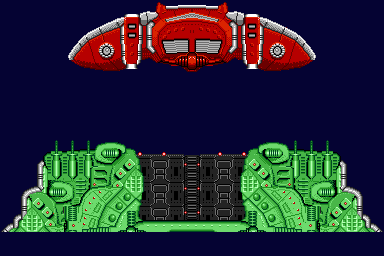
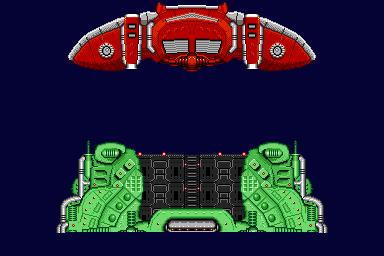
working on independent rotation

Changed region(s): [[0.75, 0.5312, 1.0, 0.9062], [0.0, 0.5312, 0.25, 0.9062], [0.375, 0.8125, 0.625, 0.9062]]

diff --git a/RotationDual/src/main.c b/RotationDual/src/main.c
@@ -16,17 +16,15 @@ s16 vScrollLowerA[20];
 s16 planeADeltas[20] = {1, 1, 1, 1, 1, 1, 1, 1, 1, 1, 1, 1, 1, 1, 1, 1, 1, 1, 1, 1};
 
 s16 vScrollB[20] = {0, 0, 0, 0, 0, 0, 0, 0, 0, 0, 0, 0, 0, 0, 0, 0, 0, 0, 0, 0};
-s16 planeBDeltas[20] = {12, 12, 10, 10, 8, 8, 8, 6, 4, 2, 2, 4, 6, 8, 8, 8, 10, 10, 12, 12};
-// s16 planeBMod[20] ={1,1, 3,3, 4,4,  5, 6, 7,8, 8,7,6,5, 4,4 ,3,3, 1,1};
+s16 planeBDeltas[20] = {9, 9, 7, 7, 5, 5, 5, 4, 3, 2, 2, 3, 4, 5, 5, 5, 7, 7, 9, 9};
+//s16 planeBDeltas[20] = {1, 1, 1, 1, 1, 1, 1, 1, 1, 1, 1, 1, 1, 1, 1, 1, 1, 1, 1, 1};
 
 // setup fake rotation by changing the foreground horizontal and vertical scrolling
-void setAngle( u16 angle, int centerY, s16 vscroll[] ) {
-	/*
-	 for( int row = START_ROW_A; row < START_ROW_A + ROWS_A; ++row ){
+void setAngle( u16 angle,  s16 startY, s16 endY, s16 centerY, s16 vscroll[] ) {
+	 for( int row = startY; row < endY; ++row ){
 	 	fix32 shift = fix32Mul(FIX32( (row - centerY)>>1 ), sinFix32(angle));	
-		hScrollA[row-START_ROW_A] = fix32ToInt( shift ) - 24;
+		hScrollA[row] = fix32ToInt( shift ) - 32;
 	 } 
-*/
 
 	// vertical scroll tiles are 16 pixels wide.  Using 8 * (col-10) to scale the scrolling effect
 	// at the extreme left and right of the screen  the factor would be -80 and + 80
@@ -43,20 +41,14 @@ void setAngle( u16 angle, int centerY, s16 vscroll[] ) {
 //  Interrupt handlers
 //
 static vu16  lineDisplay   = 0;             // line position on display screen
-static s16 scrollUpper   = -10;
-static s16 scrollLower   = -20; 
 
 HINTERRUPT_CALLBACK HIntHandler()
 {
-	/**/
 	if( lineDisplay == 90  ) {
-		for (int i = 0; i < 20; ++i)
-		{
-			//vScrollA[i] = scrollLower;
-			vScrollA[i] = vScrollLowerA[i];
-		}
-		//memcpy( vScrollA, vScrollLowerA, sizeof(vScrollLowerA));
+		// set vertical rotation component for lwoer part of BG_A
+		memcpy( vScrollA, vScrollLowerA, sizeof(vScrollLowerA));
 		VDP_setVerticalScrollTile(BG_A, 0, vScrollA, 20, CPU);
+		VDP_setVerticalScrollTile(BG_B, 0, vScrollB, 20, DMA); // use array to set plane offsets
 	} 
   // Count raster lines
   lineDisplay++;
@@ -66,14 +58,8 @@ void VBlankHandler()
 {
     // Reset to line 0
     lineDisplay = 0;
-    //VDP_setVerticalScroll(BG_A, scrollUpper );
-		/*
-		for (int i = 0; i < 20; ++i)
-		{
-			//vScrollA[i] = scrollUpper;
-			vScrollA[i] = vScrollUpperA[i];
-		}
-		*/
+
+		// set vertical rotation component for upper part of BG_A
 		memcpy( vScrollA, vScrollUpperA, sizeof(vScrollUpperA));
 		VDP_setVerticalScrollTile(BG_A, 0, vScrollA, 20, CPU);
  }
@@ -231,13 +217,13 @@ int main(bool hard)
 	int ind = TILE_USER_INDEX;
 	int indexA = ind;
 	VDP_loadTileSet(plane_a.tileset, indexA, DMA);
-	int indexB = ind + plane_b.tileset->numTile; // AND get next position in VRAM 
+	int indexB = ind + plane_b.tileset->numTile; // AND get next position in VRAM ;
 	VDP_loadTileSet(plane_b.tileset, indexB, DMA);
 
 	// SImple image for BG_B.  We're not changing  it during the level
 	VDP_drawImageEx(BG_B, &plane_b, TILE_ATTR_FULL(PAL0, FALSE, FALSE, FALSE, indexB), 0, 0, FALSE, TRUE);
 
-	// put out the image
+	// Setup BG_A
 	VDP_setTileMapEx(BG_A, plane_a.tilemap, TILE_ATTR_FULL(PAL1, TRUE, FALSE, FALSE, indexA),
 									 0,							 // Plane X destination
 									 0,							 // plane Y destination
@@ -247,7 +233,6 @@ int main(bool hard)
 									 PLANE_MAX_VERTICAL_TILE, // 
 									 CPU);
  
-	
 
 	// setup sprite
 	SPR_init();
@@ -270,26 +255,26 @@ int main(bool hard)
 	JOY_init();
 	JOY_setEventHandler(&myJoyHandler);
 
-
-	 for( int row = 0; row < 224; ++row ){
+	for (int row = 0; row < 224; ++row)
+	{
 		hScrollA[row] = -32;
-	 } 
+	}
 
-  // Setup interrupt handlers
-  SYS_disableInts();
-  {
-      SYS_setVBlankCallback(VBlankHandler);
-      SYS_setHIntCallback(HIntHandler);
-      VDP_setHIntCounter(0);
-      VDP_setHInterrupt(1);
-  }
-  SYS_enableInts();
-
-
+	// Setup interrupt handlers
+	/*
+	SYS_disableInts();
+	{
+		SYS_setVBlankCallback(VBlankHandler);
+		SYS_setHIntCallback(HIntHandler);
+		VDP_setHIntCounter(0);
+		VDP_setHInterrupt(1);
+	}
+	SYS_enableInts();
+*/
 	while (TRUE)
 	{
-		setAngle( 20, 20, vScrollUpperA );
-		setAngle( 1013, 20, vScrollLowerA );
+		setAngle(20, 0,  80,  40, vScrollUpperA);
+		setAngle(1019, 180, 223, 220, vScrollLowerA);
 
 		for (int i = 0; i < 20; i++)
 		{
@@ -298,7 +283,6 @@ int main(bool hard)
 
 		update();
 		SPR_setAnim(shipSprite.sprite, shipAnim);
-
 
 		VDP_setHorizontalScrollLine(BG_A, 0, hScrollA, 224, DMA);
 		VDP_setVerticalScrollTile(BG_B, 0, vScrollB, 20, DMA); // use array to set plane offsets
